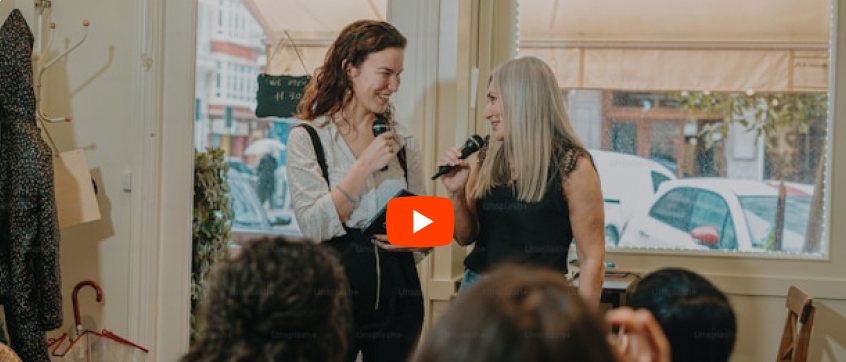
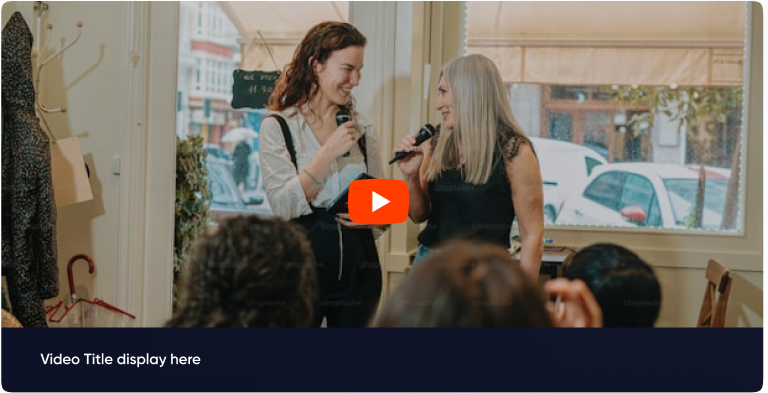
page 1 page 2 changes made

diff --git a/css.css b/css.css
@@ -87,26 +87,30 @@ header {
   display: grid;
   grid-template-columns: 1fr 1fr;
   align-items: center;
-  gap: 50px;
-  padding: 120px 110px 50px;
+  gap: 60px;
+  padding: 130px 120px 60px;
   background-image: linear-gradient(to right, rgba(249, 211, 230, 0.3), rgba(180, 225, 227, 0.3));
+  position: relative;
+  max-width: 2000px;
+  margin: auto;
 }
 
 .text-sec {
   text-align: left;
-  margin-top: 50px;
+  position: relative;
 }
 
+
 .linethree {
-  width: 35px;
-  height: 41px;
-  margin-bottom: 15px;
+  position: absolute;
 }
 
 .text-sec h1 {
   font-size: 42px;
   font-weight: 700;
   color: #000;
+  position: relative;
+  max-width: 900px;
 }
 
 .highlight {
@@ -114,8 +118,13 @@ header {
 }
 
 .curvyline {
-  margin: 7px ;
-  padding-left: 210px;
+  position: absolute; 
+  left: 225px;
+  width: 250px;
+}
+
+.curvyline img {
+  width: 100%;
 }
 
 .text-sec p {
@@ -124,133 +133,181 @@ header {
   font-weight: 400;
   max-width: 570px;
   line-height: 1.6;
-  margin-top: 20px;
+  margin-top: 40px;
 }
+
 
 .features {
   display: flex;
   flex-wrap: wrap;
-  gap: 20px;
-  margin: 30px 0;
+  gap: 25px;
+  margin: 35px 0;
 }
 
 .icon {
   display: flex;
   align-items: center;
-  gap: 8px;
+  gap: 10px;
   font-size: 16px;
   color: #333;
 }
 
 .icon img {
-  width: 25px;
-  height: 25px;
+  width: 30px;
+  height: 30px;
 }
 
 .explore-button {
   background: #5A7FFF;
   color: white;
   border: none;
-  font-size: 15px;
+  font-size: 16px;
   font-weight: 500;
-  padding: 15px 25px;
-  border-radius: 10px;
+  padding: 18px 30px;
+  border-radius: 12px;
   cursor: pointer;
-  margin-top: 25px;
+  margin-top: 30px;
 }
-
-
 
 .image-sec {
   display: flex;
   justify-content: center;
-  padding-top: 100px;
+  padding-top: 120px;
 }
 
 .image-sec img {
   width: 100%;
-  max-width: 550px;
+  max-width: 600px;
   height: auto;
 }
 
+@media (min-width: 1440px) {
+  .container {
+    gap: 80px;
+    padding: 140px 150px 70px;
+  }
+  .text-sec h1 {
+    font-size: 42px;
+    max-width: 700px;
+  }
+  .text-sec p {
+    font-size: 18px;
+    max-width: 650px;
+  }
+  .image-sec img {
+    max-width: 650px;
+  }
+ 
+  .linethree {
+    width: 50px;
+    height: 55px;
+    top: -25px;
+    left: -20px;
+  }
+}
+
+@media (max-width: 1200px) {
+  .container {
+    gap: 50px;
+    padding: 110px 80px;
+  }
+}
+
+@media (max-width: 992px) {
+  .container {
+    grid-template-columns: 1fr;
+    text-align: center;
+  }
+  .text-sec {
+    text-align: center;
+    margin-bottom: 40px;
+  }
+  .curvyline {
+    position: relative;
+    left: 50%;
+    transform: translateX(-50%);
+  }
+
+  .linethree {
+    top: -10px;
+    left: -5px;
+    width: 40px;
+    height: 45px;
+  }
+}
 
 
 
 .video-container {
-  display: flex;
-  flex-direction: column;
-  align-items: center;  
-  background-image: linear-gradient(to right, rgba(255, 229, 242, 0.3), rgba(223, 253, 254, 0.3));
   text-align: center;
-  
+  padding-top: 90px;
+  background-color: #f9f9f9;
 }
 
-
-
 .video-container h2 {
-  padding-top: 100px;
-  text-align: center;
-  font-size: 30px;
+  font-size: 28px;
   font-weight: bold;
+  color: #121214;
 }
 
 .layout {
-  display: flex;
-  justify-content: center;
+  display: grid;
+  grid-template-columns: auto minmax(800px, 75vw) auto; 
+  gap: 20px;
   align-items: center;
-  padding: 20px;
-  gap: 20px; 
+  justify-content: space-between;
+  width: 100%;
 }
 
-.left-layout,
-.right-layout {
-    display: flex;
-    flex-direction: column;
-    align-items: center;
+.left-layout {
+  display: flex;
+  flex-direction: column;
+  justify-content: left;
+  align-items: left;
+  gap: 10px;
 }
 
-.left-arrow,
-.right-arrow {
-    width: 84px;
-    height: 633px;
-    max-width: 10vw; 
+.left-layout .left-arrow {
+  width: 84px;
+  height: 633px;
 }
 
 .dots {
-    width: 153px;
-    height: 50px;
-    margin-top: 20px;
+  width: 153px; 
+  height: auto;
+  margin-top: 30px; 
+}
+
+.right-layout {
+  display: flex;
+  flex-direction: column;
+  justify-content: right;
+  align-items: right;
+}
+
+.right-layout .right-arrow {
+  width: 84px;
+  height: 633px;
 }
 
 
-.main {
-    display: flex;
-    align-items: center;
+.center-video {
+  display: flex;
     justify-content: center;
-    width: 60%;
-    max-width: 900px; 
-    background-color: #e6e8ea;
-    border-radius: 10px;
-}
-
-.video {
+    align-items: center;
     width: 100%;
+    max-width: 1200px;
     height: auto;
+    aspect-ratio: 16 / 9;
     border-radius: 10px;
 }
 
-
-
-
-.video-title {
-  background-color: #0d1226;
-  color: white;
-  padding: 15px;
-  font-size: 16px;
-  text-align: center;
-  width: 1022px;
-  border-radius: 5px;
+.center-video img {
+  width: 100%;
+  height: 100%;
+  object-fit: contain;
 }
+
 
 
 

diff --git a/index.html b/index.html
@@ -28,7 +28,7 @@
 
     <div class="container">
         <div class="text-sec">    
-            <img style="height: 35px; width: 41px;" src="image.and.icon/3line.png" alt="" class="linethree">          
+            <img style="height: 50px; width: 50px;margin-left:-20px;" src="image.and.icon/3line.png" alt="" class="linethree">          
             <h1>
                 Unlock Financial Clarity <br> With <span class="highlight">Certified Advisors</span>
             </h1>
@@ -53,29 +53,23 @@
     </div>
 
 
-        
+
     <div class="video-container">
         <h2>Watch Our Actions</h2>
         <div class="layout">
             <div class="left-layout">
                 <img src="image.and.icon/left.png" class="left-arrow">
-                <img src="image.and.icon/dots.png" class="dots">
             </div>
-            <div style="text-align: center; height: 600px;">
-                
-                <iframe style="padding-bottom: 50px;" width="922" height="425" src="https://www.youtube.com/embed/VIDEO_ID"frameborder="0" allowfullscreen></iframe>
+            <div class="center-video">
+                <img src="image.and.icon/youtube.png" alt="Video">
             </div>       
             <div class="right-layout">
                 <img src="image.and.icon/right.png" class="right-arrow">
             </div>
+            <img src="image.and.icon/dots.png" class="dots">
         </div>   
-        <div class="video-title">Video Title display here</div>
     </div>
-
-
-
-
-
+    
 
 
     <div class="page-c" >
@@ -151,6 +145,8 @@
         </div>
     </div>  
 </body>
+
+
 
 <footer class="footer">
     <div class="footer-container">       
